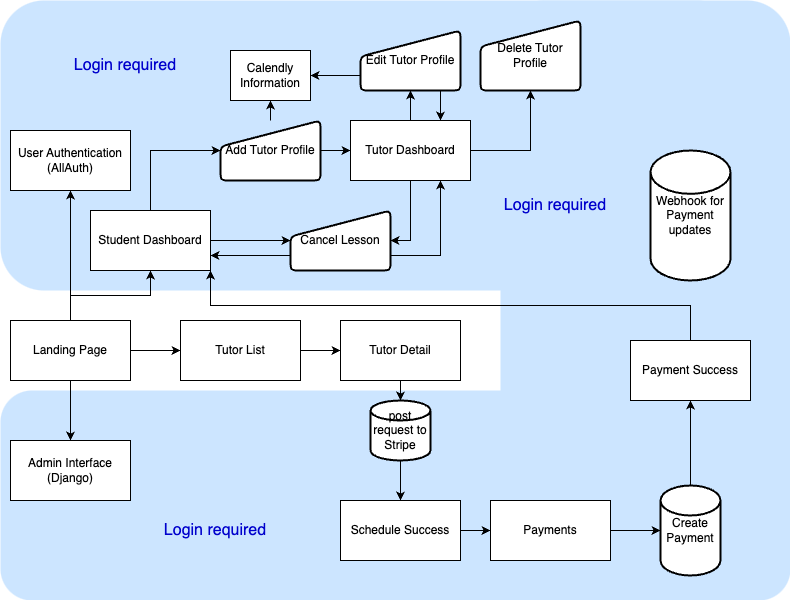
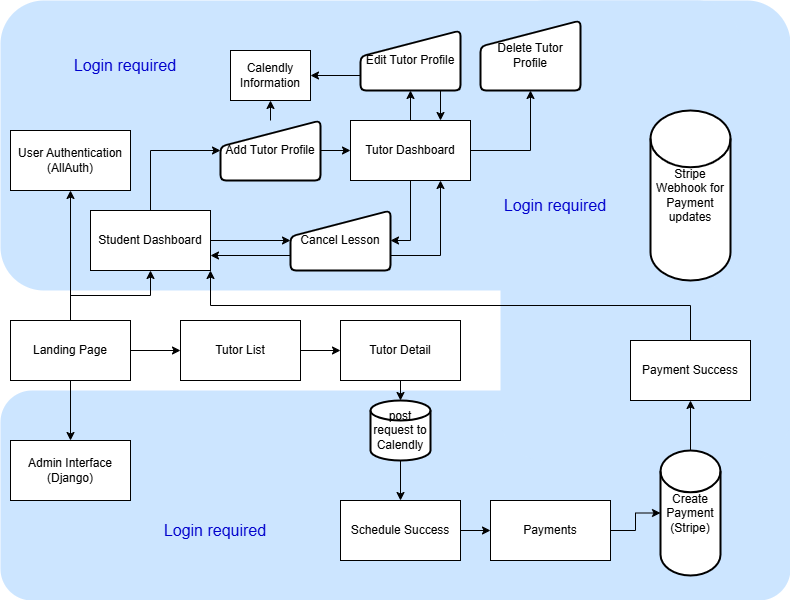
feat: proofreading run of REAMDE.md

diff --git a/README.md b/README.md
@@ -11,21 +11,18 @@
 [![Heroku](https://img.shields.io/badge/heroku-eco-purple?logo=heroku)](https://www.heroku.com/)
 
 
-Welcome to Gipfel Tutor, the pinnacle of personalized tutoring for Swiss students! Our Django-powered marketplace pairs you with the perfect tutor to conquer your academic peaks. Quick, simple, and effective — scale new heights in learning with us!
+Welcome to Gipfel Tutor, the pinnacle of personalized tutoring! Our Django-powered marketplace pairs you with the perfect tutor to conquer your academic peaks. Quick, simple, and effective — scale new heights in learning with us!
+
+> ## Our Mission: "Connect learners with a highly suitable tutor for their specific **needs** and **preferences**, within **48 hours**."
 
 > ## Top Technical Features
 > 1. **Credit Card Payments using Stripe**: Securely pay for lessons online.
-> 2. **Calendly API v2 Integration**: Schedule lessons directly from the site.
-> 3. **Socialaccount Login**: Sign in with Google for a passwordless and seamless experience. (also adds Google Pay for payments)
+> 2. **Calendly API v2 Integration**: Schedule and Cancel lessons seamlessly from the site.
+> 3. **Socialaccount Login**: Sign in with Google for a passwordless and modern experience. (also adds Google Pay to Stripe payments)
 
 ![screenshot](documentation/mockup.png)
 
-source: [amiresponsive](https://ui.dev/amiresponsive?url=https://gipfel-tutor-768a610dc54f.herokuapp.com)
-
-> [!IMPORTANT]
-> **Our Mission**:
->
-> "Connect learners with a highly suitable tutor for their specific **needs** and **preferences**, within **48 hours*."
+⤴ source: [amiresponsive](https://ui.dev/amiresponsive?url=https://gipfel-tutor-768a610dc54f.herokuapp.com)
 
 ## UX
 
@@ -109,12 +106,12 @@ Additionally I've adapted the bootstrap variables to match the colour scheme. Th
 
 ## User Stories
 
-The user stories are based on the user personas (To be found at the bottom of the document under **Design Thinking Process**) and the features of the app. They are written from the perspective of the user and describe the actions they can take on the site.
+The user stories are based on the user personas (To be found at the bottom of the document under **Design Thinking Process**) and the features of the app.
 
 Each user story is followed by a set of acceptance criteria that must be met for the story to be considered complete.
 
 > [!IMPORTANT]
-> Make sure to also check out the [User Story Map](https://github.com/users/benschaf/projects/12/views/3) which was used extensively during the development process. It provides a more visual representation of the user stories and shows them **grouped by epics** along with their **priority** and **status**.
+> Make sure to also check out the [**User Story Map**](https://github.com/users/benschaf/projects/12/views/3) which was used extensively during the development process. It provides a more visual representation of the user stories and shows them **grouped by epic** along with their **priority** and **status**.
 
 <details>
 <summary>Click To expand User Stories right here</summary>
@@ -125,7 +122,7 @@ Each user story is followed by a set of acceptance criteria that must be met for
 | --- | --- |
 | As a **first time visitor**, I want to be able to understand the purpose of the site so that I can decide if I want to sign up. | 1. The homepage should clearly explain the purpose of the site. <br> 2. The homepage should have a call-to-action button to sign up. |
 | As a **student**, I want to be able to view a list of tutors so that I can choose the best tutor for my needs. | 1. The site should have a page that lists all available tutors. <br> 2. Each tutor should have at least their profile picture, name, and hourly rate displayed.<br> 3. There should be obvious "book trial lesson" CTA Buttons. |
-| _NOT MVP:_ As a **student**, I want to be able to like and save tutors so that I can easily find them later. | |
+| _NOT MVP (not part of the **M**inimu **V**iable **P**roduct):_ As a **student**, I want to be able to like and save tutors so that I can easily find them later. | |
 
 ### Searching, filtering, and sorting
 
@@ -210,22 +207,6 @@ View the [original draw.io file](https://drive.google.com/file/d/1OUjOdhZI-Dq6OR
 
 ## Features
 
-🛑🛑🛑🛑🛑🛑🛑🛑🛑🛑 START OF NOTES (to be deleted)
-
-In this section, you should go over the different parts of your project,
-and describe each in a sentence or so.
-
-You will need to explain what value each of the features provides for the user,
-focusing on who this website is for, what it is that they want to achieve,
-and how your project is the best way to help them achieve these things.
-
-For some/all of your features, you may choose to reference the specific project files that implement them.
-
-IMPORTANT: Remember to always include a screenshot of each individual feature!
-
-🛑🛑🛑🛑🛑🛑🛑🛑🛑🛑-END OF NOTES (to be deleted)
-
-
 ### Inviting landing Page
 
 When first visiting the site, users are greeted with a clean, modern and inviting landing page. It includes a hero section with an image and a CTA Button. Further down the page, users will find an interactive section with a couple of different options to get started searching for a tutor.
@@ -237,8 +218,11 @@ The landing page is designed to be simple and user-friendly, providing a quick o
 ![screenshot](documentation/feature-landing.png)
 
 ⤴ Screenshot of the landing page
+<hr>
 
 ![screenshot](documentation/feature-landing-bento.png)
+
+⤴ Screenshot of the Bento Box Layout
 
 relevant project files: [index.html](core/templates/core/index.html)
 
@@ -288,7 +272,7 @@ relevant project files: [about.html](core/templates/core/about.html)
 
 ### FAQ Page
 
-The FAQ page provides answers to common questions users may have about the site. The content of the FAQ page can by dynamically changed by a Staff member in the Django Admin Panel. For this, the Staff Account needs to be added to the "Customer Service Admin" Authentication Group.
+The FAQ page provides answers to common questions users may have about the site. The content of the FAQ page can be dynamically changed by a Staff member in the Django Admin Panel. For this, the Staff Account needs to be added to the "Customer Service Admin" Authentication Group.
 
 The FAQ page is designed using bootstraps accordion component, which allows users to easily find the information they are looking for. It helps to reduce the number of support requests and ensures users have a positive experience on the site.
 
@@ -341,9 +325,9 @@ relevant project files: [tutor_detail.html](tutor_market/templates/tutor_market/
 
 The Calendly Scheduling Integration allows users to schedule lessons with tutors directly from the Tutor Detail page. The Calendly widget is embedded on the page and displays the tutor's availability. Users can select a date and time that works for them and book a lesson with the tutor.
 
-The Calendly Scheduling Integration is implemented using the **Calendly API v2** and **OAuth2.0**. A tutor can connect their Calendly account to the site in their tutor dashboard. Once connected, the tutor's availability and the status of any lesson is **automatically synced with the site**, ensuring users can book and cancel lessons at their convenience. The calendly webhooks were not used, as they are a paid feature - therefore any changes to events on the calendly site are not automatically reflected on the site.
+The Calendly Scheduling Integration is implemented using the **Calendly API v2** and **OAuth2.0**. A tutor can connect their Calendly account to the site in their tutor dashboard. Once connected, the tutor's availability and the status of any lesson is **automatically synced with the site**, ensuring users can book and cancel lessons at their convenience. The calendly webhooks were not used, as they are a paid feature - therefore any changes to events on the calendly site are not automatically reflected on Gipfel Tutor.
 
-Upon booking a lesson, the user receives a confirmation email from Calendly and is redirected to a success page on the site. The tutor also receives a notification email from Calendly and can manage the lesson in their Calendly dashboard.
+Upon booking a lesson, the user receives a confirmation email from Calendly and is redirected to a success page on the site. The tutor also receives a notification email from Calendly and can manage the lesson from their Dashboard.
 
 ![screenshot](documentation/feature-calendly.png)
 
@@ -375,7 +359,7 @@ Once a users payment is successful, they are redirected to a success page on the
 
 relevant project files: [payment.html](booking/templates/booking/payment.html), [payment.js](booking/static/booking/js/payment.js)
 
-### User Authentication with Allauth
+### User Authentication with Allauth (including Socialaccount Login)
 
 The User Authentication with Allauth feature allows users to create an account, log in, log out, reset their password and manage their account email. The feature is implemented using the **Django Allauth** package and includes **email verification** to ensure the security of user accounts. Additionally, the feature includes **social media login** using Google.
 
@@ -383,8 +367,8 @@ The socical media login feature comes in very handy in combination with **Calend
 
 The Project is running Allauth Version: 0.63.3. This means that it is very convenient to adapt the templates which are heavily reliant on django template tags. Basically all Styling could be achieved by only changing one template file:
 
-[templates/account/allauth/base.html](templates/allauth/layouts/base.html)
-```python
+file: [templates/account/allauth/base.html](templates/allauth/layouts/base.html)
+```html
 {% extends 'base.html' %}
 {% block page_header %}
   {{ block.super }}
@@ -415,7 +399,7 @@ The google login Button was styled using the [Google Sign-In Branding Guidelines
 
 ![screenshot](documentation/feature-auth-google.png)
 
-⤴ Screenshot of the Google Login Button
+⤴ Screenshot of the Google Login confirm Screen
 
 The Django Allauth package provides more templates that are not all documented here, but they are working on the site.
 
@@ -429,7 +413,7 @@ The user Dashboard is designed to be informative and user-friendly, providing us
 
 ![screenshot](documentation/feature-user-dashboard.png)
 
-⤴ Screenshot of the User Dashboard
+⤴ Screenshot of the Student Dashboard
 
 relevant project files: [student_dashboard.html](tutor_market/templates/tutor_market/student_dashboard.html)
 
@@ -489,8 +473,6 @@ These Permissions should allow staff members to manage the site effectively, pro
 
 relevant project files: [allauth_groups_fixture.json](fixtures/allauth_groups_fixture.json)
 
-### SEO Techniques
-
 ### Mailchimp Newsletter form
 
 In the footer of the site, users can subscribe to the site's newsletter using the Mailchimp Newsletter form. The form is designed to be simple and user-friendly, providing users with an easy way to stay informed about new features and updates. The form is implemented using a generated template from the Mailchimp website. The design is adapted to fit the site's color scheme and branding but still sticks out as a Mailchimp form, sticking to the Mailchimp Branding Guidelines.
@@ -532,14 +514,14 @@ relevant project files: All template files.
 Many features were planned for the site but could not be implemented due to time constraints. Some of the planned features include:
 
 - Feedback on singular lessons
-    - After a lesson, the student should be able to give feedback on the lesson. This feedback should be visible to the tutor and the student in their dashboards. At the moment, any logged-in user exvept from the tutur himself can post feedback on a tutor.
+    - After a lesson, the student should be able to give feedback on the lesson. This feedback should be visible to the tutor and the student in their dashboards. At the moment, any logged-in user except from the tutur himself can post feedback on a tutor.
 - Chat system for students and tutors
     - A chat system should be implemented to allow students and tutors to communicate directly on the site. This would make it easier to set up and organize lessons between students and tutors. At the moment, tutors and students can only communicate via email.
 - Stripe confirmation emails
     - After a successful payment, the user should receive a confirmation email. This would provide users with a receipt and ensure they have a record of their payment. At the moment, the user is only redirected to a success page on the site.
 
 > [!NOTE]
-> Make sure to have a look at the [User Story Map](https://github.com/users/benschaf/projects/12/views/3) to see smaller additions and quality of life improvements that are planned for the site.
+> Make sure to have a look at the [User Story Map](https://github.com/users/benschaf/projects/12/views/3) to see smaller additions and quality of life improvements that are planned for the site. Just have a look at the "Should Have" and "Could Have" Columns.
 
 
 ## Tools & Technologies Used
@@ -565,7 +547,7 @@ Many features were planned for the site but could not be implemented due to time
 - [![AWS S3](https://img.shields.io/badge/AWS_S3-grey?logo=amazons3&logoColor=569A31)](https://aws.amazon.com/s3) used for online static file storage.
 - [![Font Awesome](https://img.shields.io/badge/Font_Awesome-grey?logo=fontawesome&logoColor=528DD7)](https://fontawesome.com) used for the icons.
 - [![ChatGPT](https://img.shields.io/badge/ChatGPT-grey?logo=chromatic&logoColor=75A99C)](https://chatopenai.de/) used to help debug, troubleshoot, and explain things.
-- ![Calendly api v2](https://img.shields.io/badge/-Calendly%20API-1A1A1A?style=flat&logo=calendly)
+- ![Calendly api v2](https://img.shields.io/badge/-Calendly%20API-1A1A1A?style=flat&logo=calendly) used to provide scheduling functionality for tutors.
 - ![django template support](https://img.shields.io/badge/-Django%20Template%20Support-092E20?style=flat&logo=django) used to format the template .html files
 - ![djlint](https://img.shields.io/badge/-DjLint-092E20?style=flat&logo=django) used to lint and format the Django code
 - ![django vscode extension](https://img.shields.io/badge/-Django%20VSCode%20Extension-092E20?style=flat&logo=django) used to provide Django support in VSCode
@@ -579,7 +561,7 @@ Many features were planned for the site but could not be implemented due to time
 
 ## User Journey Flowchart
 
-Below is a flowchart that outlines the user journey on the site. It shows the different paths a user can take and the actions they can perform. One focus of the site is to provide as much access to users that aren't logged in yet as possible. This is why the user can search for tutors, view tutor profiles without being logged in. The only need to login once they want to book a lesson.
+Below is a flowchart that outlines the user journey on the site. It shows the different paths a user can take and the actions they can perform. One focus of the site is to provide as much access to users that aren't logged in yet as possible. Users can view all tutors and their profiles without being logged in. They only need to log in or sign up once they want to book a lesson.
 
 [flowchart link](https://drive.google.com/file/d/1k-WFUWeaEafaomXcuk4rCSmGXS4WIFbf/view?usp=sharing)
 
@@ -658,7 +640,7 @@ INSTALLED_APPS = [
 - removed `'django_extensions',` from my `INSTALLED_APPS`
 - finally, in the terminal: `pip3 uninstall django-extensions pygraphviz -y`
 
-Note that the `Student` model was dropped in the final version of the site. The `User` model is used instead to represent students.
+Note that the `Student` model was dropped in the final version of the site. The `User` model is used directly instead to represent students.
 
 ![erd](documentation/erd_final.png)
 
@@ -679,7 +661,7 @@ User stories are grouped by Epic and MoSCoW priority. The epics were determined 
 
 In depth information about the conception of the idea for the site and the User Stories can be found under the Design Thinking Progress section at the bottom of this file.
 
-Throughout the development process, user stories were reevaluated after each iteration and adjusted accordingly. At this time, they are frozen at the beginning of the last iteration to give more insight into the development process. Many tasks were created based off of each User story. These tasks were mainly organized in a [Kanban Board](https://github.com/users/benschaf/projects/12/views/2) within the same GitHub Project.
+Throughout the development process, user stories were reevaluated after each iteration and adjusted accordingly. Many tasks were created based off of each User story. These tasks were mainly organized in a [Kanban Board](https://github.com/users/benschaf/projects/12/views/2) within the same GitHub Project.
 
 All in all the User Story Map was of immense help to plan in between iterations and the Kanban Board served as a progress measuring tool while in the middle of a sprint.
 
@@ -758,6 +740,8 @@ Add todo items as needed by commenting on this issue.
 
 ## Ecommerce Business Model
 
+Below is an overview of the business model for the site. It includes information about the site's target audience, the service it provides, and how it generates revenue.
+
 **WHO**
 This site acts as a platform for students to find tutors and book lessons with them. It therefore follows a `Business to Customer` model.
 
@@ -767,13 +751,17 @@ The site focuses on providing the service of connecting students with tutors. It
 **HOW**
 Payment transactions are individual as opposed to a subscription model. Users can choose to pay for lessons as they book them or pay for multiple lessons at once. The site uses the Stripe API to handle payments securely.
 
-It is still in its early development stages, although it already has a newsletter, and links for social media marketing. The Facebook page is already set up and linked to the site.
+The site is still in its early development stages, although it already has a newsletter, and links for social media marketing. The Facebook page is already set up and linked to the site.
 
 Social media can potentially build a community of users around the business, and boost site visitor numbers,
 especially when using larger platforms such a Facebook.
 
 A newsletter list can be used by the business to send regular messages to site users.
 For example a welcome message, notifications of new tutors, and reminders of upcoming lessons, updates to business hours, notifications of events, and much more!
+
+### Business and Costumer Goals
+
+The business goals of the app are to provide a platform where students can find tutors for their specific needs and preferences. The app aims to set itself apart from other tutoring platforms by providing a better matching system that leverages detailed tutor profiles, ratings, and reviews. The app also aims to provide a seamless user experience for both students and tutors, with features such as detailed tutor profiles, booking requests, and online payments.
 
 ## Search Engine Optimization (SEO) & Social Media Marketing
 
@@ -785,7 +773,7 @@ This included a series of the following keyword types. I've also included some t
 
 Check out [this commit](https://github.com/benschaf/gipfel-tutor/commit/c23e09cd80d2b466e50f83a7562976e49dfac1dc) to see how the keywords were implemented along with semantic HTML tags.
 
-The keywords marked as "*(too generic)*" too authoritative and would be difficult to rank for.
+The keywords marked as "*(too generic)*" are too authoritative and would be difficult to rank for.
 
 - Short-tail (head terms) keywords
     - Tutoring
@@ -867,9 +855,6 @@ The newsletter form is located in the footer of the site and is linked to a Mail
 
 compare feature: [Mailchimp Newsletter form](#mailchimp-newsletter-form)
 
-## Business and Costumer Goals
-
-The business goals of the app are to provide a platform where students can find tutors for their specific needs and preferences. The app aims to set itself apart from other tutoring platforms by providing a better matching system that leverages detailed tutor profiles, ratings, and reviews. The app also aims to provide a seamless user experience for both students and tutors, with features such as detailed tutor profiles, booking requests, and online payments.
 
 ## Testing
 
@@ -1091,7 +1076,7 @@ Once you've created a [Calendly developer account](https://developer.calendly.co
     - Save the `Client ID` and `Client Secret` keys and the `Redirect Uri` for the production app.
         - `CALENDLY_PROD_CLIENT_ID` = Client ID
         - `CALENDLY_PROD_CLIENT_SECRET` = Client Secret
-        - `CALENDLY_PROD_REDIRECT_URI` = "Your Deployed Heroku App URL" + `/calendly/auth`
+        - `CALENDLY_PROD_REDIRECT_URI` = "your deployed heroku base url" + `/calendly/auth`
 
 ### Google Social Login
 
@@ -1115,6 +1100,7 @@ Once you've created a Google account and logged-in, follow these series of steps
 ```python
 INSTALLED_APPS = [
     # ...
+    "django.contrib.sites",
     "allauth",
     "allauth.account",
     "allauth.socialaccount",
@@ -1140,6 +1126,11 @@ SOCIALACCOUNT_PROVIDERS = {
 SOCIALACCOUNT_ENABLED = True
 ```
 
+- migrate the database to include the new tables for allauth:
+```shell
+python3 manage.py migrate
+```
+
 - In the Django admin panel, navigate to **Sites**.
 - Add a new site with the following details:
     - Domain name: `localhost:8000`
@@ -1156,7 +1147,8 @@ SOCIALACCOUNT_ENABLED = True
     - Secret Key: `Your Google Client Secret`
     - Sites: `localhost` and `Heroku`
 
-For troubleshooting, refer to the [Allauth Socialaccount Documentation](https://docs.allauth.org/en/latest/socialaccount/index.html).
+> [!INFO]
+> For troubleshooting, refer to the [Allauth Socialaccount Documentation](https://docs.allauth.org/en/latest/socialaccount/index.html).
 
 
 ### Heroku Deployment
@@ -1250,10 +1242,6 @@ and include the same environment variables listed above from the Heroku deployme
 > This is a sample only; you would replace the values with your own if cloning/forking my repository.
 
 Sample `env.py` file:
-S>DFHJADSGHKADSG
-SDAFFGHJSKAGHKSDAF
-DSASDGFHASJDGHKSDAFs
-fsdhagfjdasgkhd
 ```python
 import os
 
@@ -1394,7 +1382,7 @@ Additionaly, [Chris Beams](https://chris.beams.io/posts/git-commit) article "How
 - All images on the landing page were created by AI using [deepai.org](https://deepai.org/machine-learning-model/origami-3d-generator)
 - All example profile pictures were generated using [thispersondoesnotexist.com](https://thispersondoesnotexist.com)
 
-### Acknowledgements
+## Acknowledgements
 
 - Immense thanks go to my Code Institute mentor, [Tim Nelson](https://github.com/TravelTimN) for his support throughout the development of this project.
 - I would like to thank the [Code Institute](https://codeinstitute.net) tutor team for their assistance and their time with troubleshooting and debugging some project issues.
